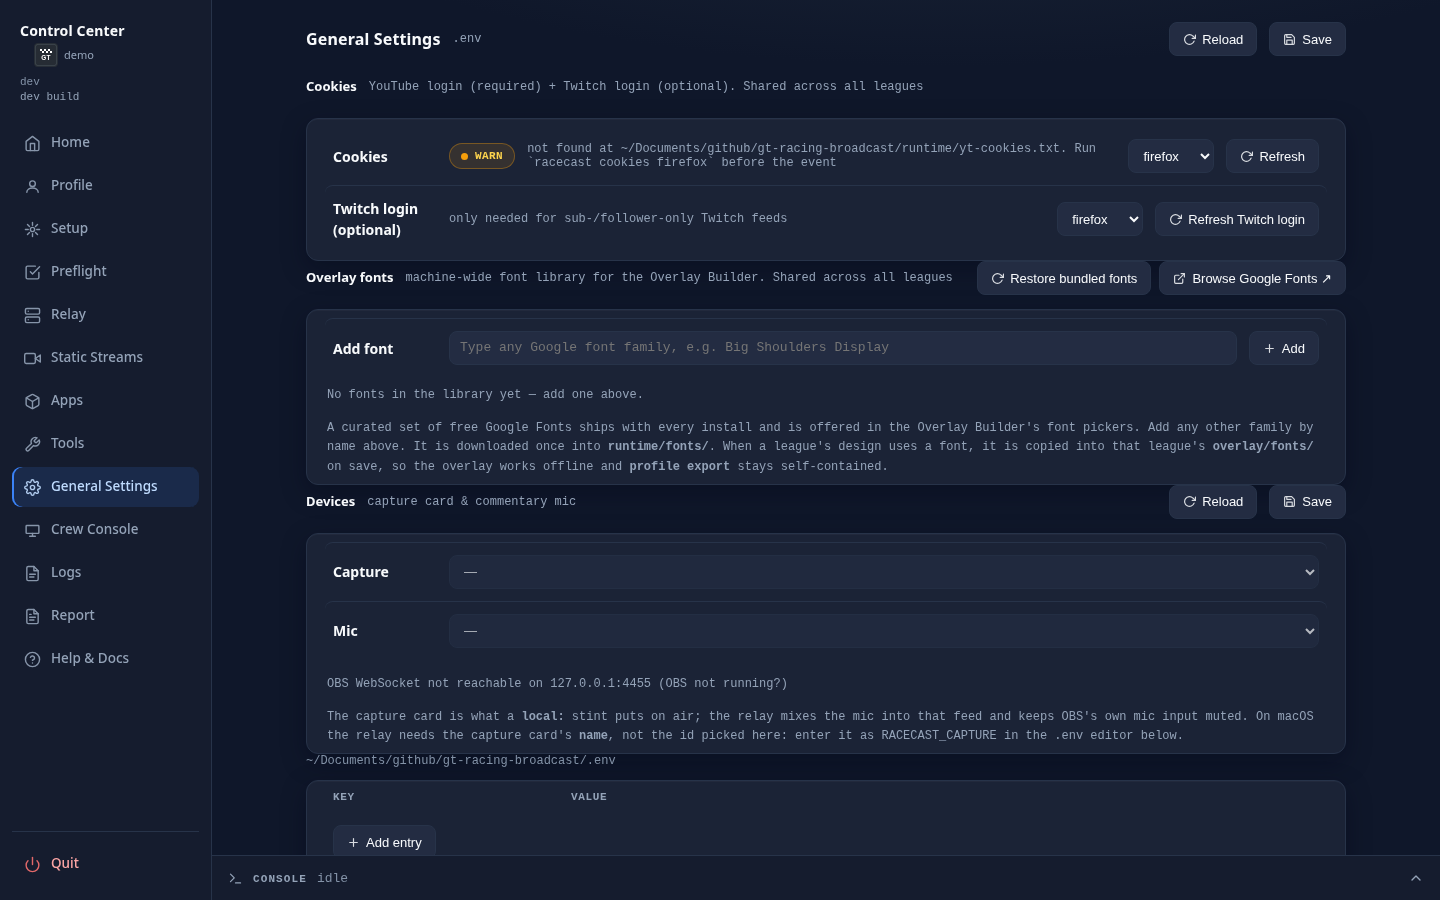
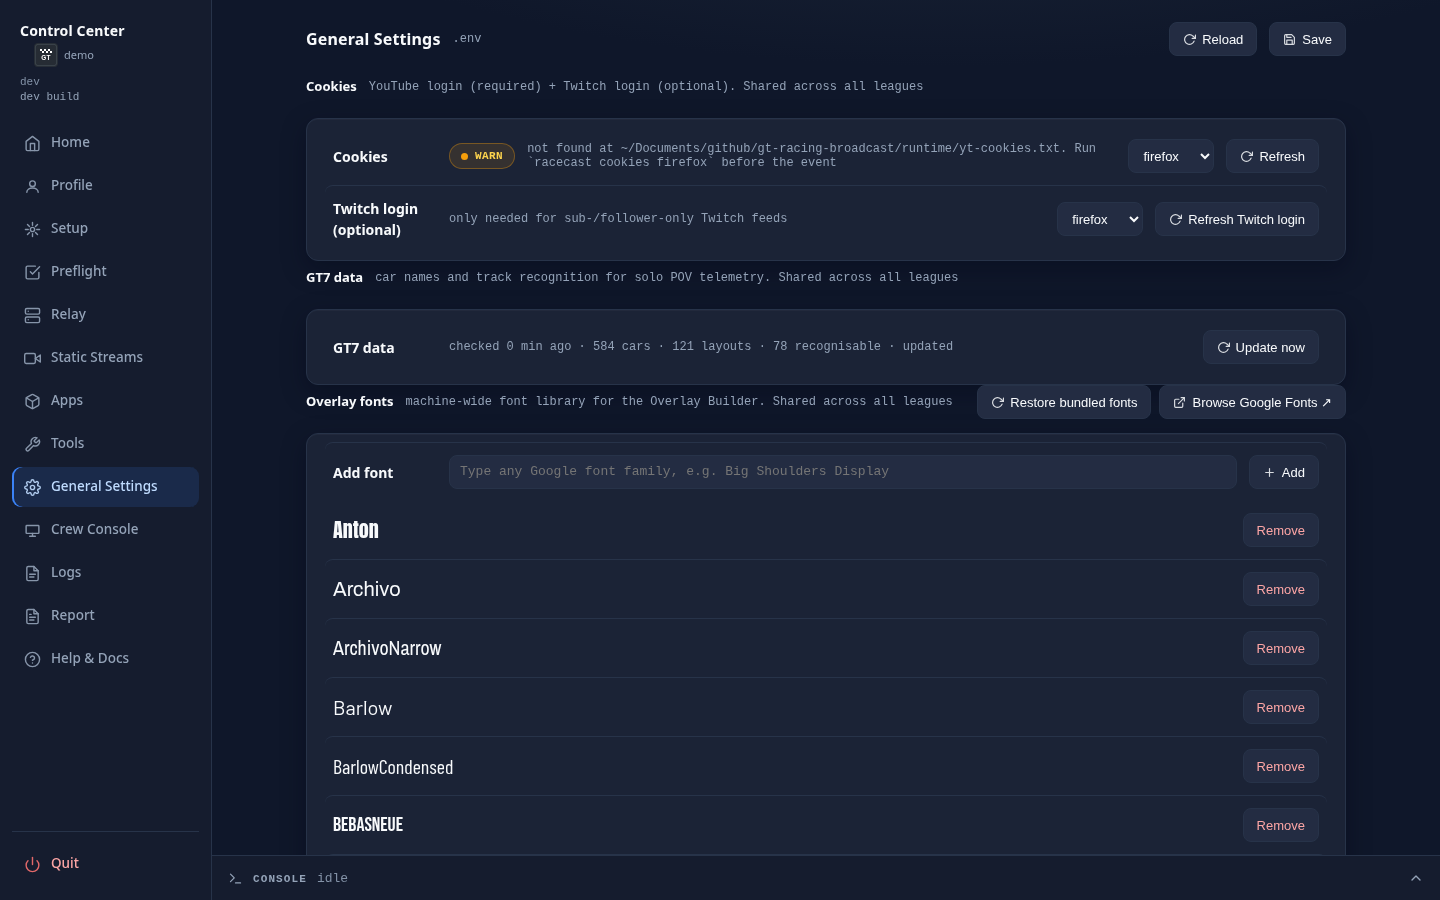
feat(cli,ui): racecast gt7-data and a GT7 data row in Settings (#787)
`racecast gt7-data update [--force]` fetches the GT7 car and track data now,
`racecast gt7-data status` lists each file's source and row count and names
signatures.json as not downloaded yet until the first update. The Control
Center Settings view gains a GT7 data row with an Update now button backed by
GET /api/gt7-data and POST /api/gt7-data/update.

diff --git a/src/ui/control-center.html b/src/ui/control-center.html
@@ -1001,6 +1001,13 @@
             <button onclick="op('cookies-twitch', false, {browser: $('browser-tw').value})">
               <svg viewBox="0 0 24 24"><path d="M23 4v6h-6"/><path d="M20.49 15a9 9 0 1 1-2.12-9.36L23 10"/></svg>Refresh Twitch login</button></div>
         </section>
+        <div class="viewhead"><h3>GT7 data</h3><span class="sub">car names and track recognition for solo POV telemetry. Shared across all leagues</span></div>
+        <section>
+          <div class="row"><span class="name">GT7 data</span>
+            <span class="dim grow" id="d-gt7data">…</span>
+            <button id="gt7data-update" onclick="updateGt7Data()" title="Fetch the latest car and track data now">
+              <svg viewBox="0 0 24 24"><path d="M23 4v6h-6"/><path d="M20.49 15a9 9 0 1 1-2.12-9.36L23 10"/></svg>Update now</button></div>
+        </section>
         <div class="viewhead"><h3>Overlay fonts</h3><span class="sub">machine-wide font library for the Overlay Builder. Shared across all leagues</span>
           <span class="vhbtns">
           <button id="font-restore" onclick="restoreBundledFonts()" title="Overwrite the fonts that ship with this install, in the library and in every league profile">
@@ -2539,6 +2546,7 @@ async function loadSettings(force) {
   $('env-err').hidden = true;
   loadFontLibrary();
   loadDevices();
+  loadGt7Data();
   let d;
   try { d = await (await fetch('/api/env', {cache: 'no-store'})).json(); }
   catch (e) { showEnvErr('Control Center not reachable.'); return; }
@@ -2744,6 +2752,45 @@ async function downloadCustomFont() {
   }
   $('font-custom').value = '';
   loadFontLibrary();
+}
+
+function fmtAgeS(ts) {
+  if (!ts) return 'never';
+  const s = Math.max(0, Date.now() / 1000 - ts);
+  if (s < 3600) return Math.round(s / 60) + ' min ago';
+  if (s < 86400) return Math.round(s / 3600) + ' h ago';
+  return Math.round(s / 86400) + ' days ago';
+}
+
+async function loadGt7Data() {
+  let d;
+  try { d = await (await fetch('/api/gt7-data', {cache: 'no-store'})).json(); }
+  catch (e) { $('d-gt7data').textContent = 'Control Center not reachable.'; return; }
+  if (!d.ok) { $('d-gt7data').textContent = d.error || 'unavailable'; return; }
+  const f = d.files || {};
+  const rows = n => (f[n] && f[n].rows != null) ? f[n].rows : '?';
+  const src = Object.values(f).some(x => x.source === 'runtime') ? 'updated' : 'bundled';
+  const sig = f['signatures.json'];
+  const recog = (sig && sig.source === 'missing') ? 'track signatures not downloaded yet'
+      : rows('signatures.json') + ' recognisable';
+  $('d-gt7data').textContent = 'checked ' + fmtAgeS(d.checked) + ' · ' + rows('cars.csv') +
+      ' cars · ' + rows('index.json') + ' layouts · ' + recog + ' · ' + src;
+}
+
+async function updateGt7Data() {
+  const b = $('gt7data-update'); b.disabled = true;
+  let d;
+  try {
+    d = await (await fetch('/api/gt7-data/update', {method: 'POST',
+        headers: {'Content-Type': 'application/json'}, body: '{}'})).json();
+  } catch (e) { d = {ok: false, error: 'Control Center not reachable.'}; }
+  b.disabled = false;
+  const errs = Object.entries(d.files || {}).filter(([, v]) => String(v).startsWith('error'));
+  if (!d.ok || errs.length) {
+    await alertModal((d.error ? d.error + '\n' : '') +
+        errs.map(([k, v]) => k + ': ' + v).join('\n'), {title: 'GT7 data'});
+  }
+  loadGt7Data();
 }
 
 async function restoreBundledFonts() {

diff --git a/src/racecast.py b/src/racecast.py
@@ -22,6 +22,7 @@
   racecast sheet     url | open              # print / open the active league's Google Sheet (built from its SHEET_ID)
   racecast telemetry record start|stop|status   # solo POV: record the GT7 telemetry trace (relay must run)
   racecast telemetry list | export <name|latest> [--out DIR] [--all] [--excel] | delete <name>   # recordings of the active profile -> samples.csv + laps.csv
+  racecast gt7-data  update [--force] | status   # GT7 car names + track recognition data (checked daily by the relay)
   racecast app launch|quit obs|discord|tailscale   # start / gracefully quit a GUI app (Control Center buttons)
   racecast discord   join | leave | status   # drive the desktop Discord client into/out of the league's voice channel
   racecast status                            # aggregate health of all services
@@ -982,6 +983,7 @@ TAILSCALE_VERBS = ("up", "down", "status", "logs")
 OBS_VERBS = ("refresh", "collection", "logs", "stream-target", "benchmark")
 SHEET_VERBS = ("url", "open")           # active league's Google Sheet (from SHEET_ID)
 TELEMETRY_VERBS = ("record", "list", "export", "delete")   # GT7 telemetry recordings
+GT7DATA_VERBS = ("update", "status")      # GT7 reference data
 APP_VERBS = ("launch", "quit")          # GUI app control for the Control Center
 APP_CONTROLLED = ("obs", "discord", "tailscale")   # GUI apps racecast can launch + quit
 
@@ -1049,6 +1051,11 @@ def route(argv):
         if verb not in TELEMETRY_VERBS:
             raise ValueError(f"usage: racecast telemetry {{{'|'.join(TELEMETRY_VERBS)}}}")
         return {"kind": "service", "command": "telemetry", "verb": verb, "rest": rest[1:]}
+    if cmd == "gt7-data":
+        verb = rest[0] if rest else None
+        if verb not in GT7DATA_VERBS:
+            raise ValueError(f"usage: racecast gt7-data {{{'|'.join(GT7DATA_VERBS)}}}")
+        return {"kind": "service", "command": "gt7-data", "verb": verb, "rest": rest[1:]}
     if cmd == "app":
         verb = rest[0] if rest else None
         if verb not in APP_VERBS:
@@ -3303,6 +3310,60 @@ def telemetry_delete_cmd(rest):
     print(f"deleted {name}")
 
 
+def _gt7_data_module():
+    import gt7_data
+    return gt7_data
+
+
+def _gt7_files_ok(files):
+    return any(not str(v).startswith("error") for v in files.values())
+
+
+def gt7_data_update_data():
+    """Force a GT7 data update for the Control Center; never raises."""
+    try:
+        res = _gt7_data_module().update(_runtime_base_dir(), force=True)
+    except Exception as exc:  # noqa: BLE001  the Control Center shows the message instead
+        return {"ok": False, "error": f"could not update GT7 data: {exc}"}
+    return {"ok": _gt7_files_ok(res["files"]), "changed": res["changed"], "files": res["files"]}
+
+
+def gt7_data_status_data():
+    """Source, age and row count of each GT7 data file; never raises."""
+    try:
+        st = _gt7_data_module().status(_runtime_base_dir(), resource_path("assets/gt7"))
+    except Exception as exc:  # noqa: BLE001  the Control Center shows the message instead
+        return {"ok": False, "error": f"could not read GT7 data: {exc}"}
+    return {"ok": True, "checked": st["checked"], "files": st["files"]}
+
+
+def gt7_data_update_cmd(rest):
+    """Fetch the latest GT7 car and track data now."""
+    if rest not in ([], ["--force"]):
+        sys.exit("usage: racecast gt7-data update [--force]")
+    res = gt7_data_update_data()
+    if "error" in res:
+        sys.exit(res["error"])
+    for name, state in sorted(res["files"].items()):
+        print(f"{name}: {state}")
+    if not res["ok"]:
+        sys.exit("GT7 data update failed (offline?)")
+
+
+def gt7_data_status_cmd(_rest):
+    """Show where each GT7 data file comes from and how many rows it holds."""
+    st = gt7_data_status_data()
+    if not st["ok"]:
+        sys.exit(st["error"])
+    when = time.strftime("%Y-%m-%d %H:%M", time.localtime(st["checked"])) if st["checked"] else "never"
+    print(f"last check: {when}")
+    for name, f in sorted(st["files"].items()):
+        if f["source"] == "missing":
+            print(f"{name}: not downloaded yet (run 'racecast gt7-data update')")
+            continue
+        print(f"{name}: {f['source']}, {f['rows'] if f['rows'] is not None else '?'} rows")
+
+
 def _release_obs_feeds():
     """Make OBS (via obs-websocket) drop its connections to the just-killed
     feeds. Otherwise OBS keeps the half-dead connections and the kernel pins
@@ -4694,6 +4755,7 @@ DISPATCH = {
     ("sheet", "url"): sheet_url_cmd, ("sheet", "open"): sheet_open_cmd,
     ("telemetry", "record"): telemetry_record_cmd, ("telemetry", "list"): telemetry_list_cmd,
     ("telemetry", "export"): telemetry_export_cmd, ("telemetry", "delete"): telemetry_delete_cmd,
+    ("gt7-data", "update"): gt7_data_update_cmd, ("gt7-data", "status"): gt7_data_status_cmd,
     ("app", "launch"): app_launch_cmd, ("app", "quit"): app_quit_cmd,
 }
 
@@ -7256,6 +7318,8 @@ def run_ui(rest, fail=sys.exit, open_browser=True):
         "machine_font_download": machine_font_download_data,
         "machine_font_delete": machine_font_delete_data,
         "fonts_restore": restore_bundled_fonts_data,
+        "gt7_data_status": gt7_data_status_data,
+        "gt7_data_update": gt7_data_update_data,
         "backup_list": backup_list_data,
         "backup_create": backup_create_data,
         "backup_restore": backup_restore_data,

diff --git a/tests/test_racecast.py b/tests/test_racecast.py
@@ -267,6 +267,108 @@ def t_route_telemetry_verbs():
     _raises(lambda: m.route(["telemetry", "bogus"]))
 
 
+def t_route_gt7_data_verbs():
+    for verb in ("update", "status"):
+        assert m.route(["gt7-data", verb]) == \
+            {"kind": "service", "command": "gt7-data", "verb": verb, "rest": []}
+    _raises(lambda: m.route(["gt7-data"]))
+    _raises(lambda: m.route(["gt7-data", "bogus"]))
+
+
+@contextlib.contextmanager
+def _fake_gt7_data(fake):
+    real = m._gt7_data_module
+    m._gt7_data_module = lambda: fake
+    try:
+        yield
+    finally:
+        m._gt7_data_module = real
+
+
+def t_gt7_data_update_data_forces_and_never_raises():
+    seen = []
+
+    class Fake:
+        @staticmethod
+        def update(base, force=False):
+            seen.append(force)
+            return {"checked": True, "changed": True, "files": {"cars.csv": "updated"}}
+
+        @staticmethod
+        def status(base, bundled=None):
+            raise RuntimeError("disk")
+
+    with _fake_gt7_data(Fake):
+        assert m.gt7_data_update_data()["ok"] is True and seen == [True]
+        assert m.gt7_data_status_data() == {"ok": False, "error": "could not read GT7 data: disk"}
+
+
+def t_gt7_data_update_data_maps_errors():
+    class AllFailed:
+        @staticmethod
+        def update(base, force=False):
+            return {"checked": True, "changed": False, "files": {"cars.csv": "error: offline"}}
+
+    class Boom:
+        @staticmethod
+        def update(base, force=False):
+            raise RuntimeError("disk")
+
+    with _fake_gt7_data(AllFailed):
+        assert m.gt7_data_update_data()["ok"] is False, "every file failed -> not ok"
+    with _fake_gt7_data(Boom):
+        assert m.gt7_data_update_data() == {"ok": False,
+                                            "error": "could not update GT7 data: disk"}
+
+
+def t_gt7_data_status_cmd_names_missing_signatures():
+    class Fake:
+        @staticmethod
+        def status(base, bundled=None):
+            return {"checked": None, "files": {
+                "cars.csv": {"source": "bundled", "updated": None, "rows": 500},
+                "signatures.json": {"source": "missing", "updated": None, "rows": None}}}
+
+    out = io.StringIO()
+    with _fake_gt7_data(Fake), contextlib.redirect_stdout(out):
+        m.gt7_data_status_cmd([])
+    text = out.getvalue()
+    assert "last check: never" in text, text
+    assert "cars.csv: bundled, 500 rows" in text, text
+    assert "signatures.json: not downloaded yet" in text and "gt7-data update" in text, text
+
+
+def t_gt7_data_update_cmd_prints_files_and_fails_when_all_fail():
+    seen = []
+
+    class Fake:
+        files = {"cars.csv": "updated", "index.json": "unchanged"}
+
+        @classmethod
+        def update(cls, base, force=False):
+            seen.append(force)
+            return {"checked": True, "changed": True, "files": cls.files}
+
+    out = io.StringIO()
+    with _fake_gt7_data(Fake), contextlib.redirect_stdout(out):
+        m.gt7_data_update_cmd(["--force"])
+    assert "cars.csv: updated" in out.getvalue() and seen == [True], out.getvalue()
+    Fake.files = {"cars.csv": "error: offline"}
+    try:
+        with _fake_gt7_data(Fake), contextlib.redirect_stdout(io.StringIO()):
+            m.gt7_data_update_cmd([])
+    except SystemExit as e:
+        assert "failed" in str(e.code), e.code
+    else:
+        raise AssertionError("an update where every file failed must exit non-zero")
+    try:
+        m.gt7_data_update_cmd(["--bogus"])
+    except SystemExit as e:
+        assert "usage" in str(e.code), e.code
+    else:
+        raise AssertionError("an unknown flag must print usage")
+
+
 def _rec_dir_with_one(d):
     import importlib
     gr = importlib.import_module("gt7_recording")

diff --git a/tests/test_ui_server.py b/tests/test_ui_server.py
@@ -196,6 +196,8 @@ def _ctx(jobs=None, init_plan=None, init_step=None, profile_logo=None,
                                                    "name": (name or "") + ".woff2"},
             "machine_font_delete": lambda name: {"ok": True, "removed": name},
             "fonts_restore": lambda force: {"ok": True, "library": [], "profiles": {}},
+            "gt7_data_status": lambda: {"ok": True, "checked": None, "files": {}},
+            "gt7_data_update": lambda: {"ok": True, "changed": False, "files": {}},
             "overlay_font_upload": lambda name, data: {"ok": bool(name),
                                                        "name": name,
                                                        "_len": len(data)},
@@ -1594,6 +1596,35 @@ def t_fonts_restore_route_passes_only_a_literal_true_force():
         assert code == 200 and json.loads(body)["profiles"] == {"demo": ["Oswald.woff2"]}
         _post_json(port, "/api/fonts/restore", {"force": "yes"})
         assert seen == [True, False], seen
+    finally:
+        httpd.shutdown()
+
+
+def t_gt7_data_routes():
+    ctx = _ctx()
+    ctx["gt7_data_update"] = lambda: {"ok": True, "changed": True,
+                                      "files": {"cars.csv": "updated"}}
+    httpd, port = _serve(ctx)
+    try:
+        code, body = _get(port, "/api/gt7-data")
+        assert code == 200 and json.loads(body)["ok"] is True, (code, body)
+        code, body = _post_json(port, "/api/gt7-data/update", {})
+        assert code == 200 and json.loads(body)["files"] == {"cars.csv": "updated"}, body
+    finally:
+        httpd.shutdown()
+
+
+def t_gt7_data_update_route_maps_failures():
+    ctx = _ctx()
+    ctx["gt7_data_update"] = lambda: {"ok": False, "changed": False,
+                                      "files": {"cars.csv": "error: offline"}}
+    httpd, port = _serve(ctx)
+    try:
+        code, body = _post_json(port, "/api/gt7-data/update", {})
+        assert code == 502 and json.loads(body)["ok"] is False, (code, body)
+        ctx["gt7_data_update"] = lambda: 1 / 0
+        code, body = _post_json(port, "/api/gt7-data/update", {})
+        assert code == 500 and json.loads(body)["ok"] is False, (code, body)
     finally:
         httpd.shutdown()
 

diff --git a/src/ui/ui_server.py b/src/ui/ui_server.py
@@ -473,6 +473,13 @@ def make_handler(ctx):
                     return self._json({"ok": False,
                                        "error": f"could not read profile .env: {exc}"},
                                       code=500)
+            if path == "/api/gt7-data":
+                try:
+                    return self._json(ctx["gt7_data_status"]())
+                except Exception as exc:
+                    return self._json({"ok": False,
+                                       "error": f"could not read GT7 data: {exc}"},
+                                      code=500)
             if path == "/api/crew":
                 try:
                     return self._json(ctx["crew_read"]())
@@ -857,6 +864,14 @@ def make_handler(ctx):
                                        "error": f"could not fetch Google font: {exc}"},
                                       code=500)
                 return self._json(result, code=200 if result.get("ok") else 400)
+            if path == "/api/gt7-data/update":
+                try:
+                    result = ctx["gt7_data_update"]()
+                except Exception as exc:
+                    return self._json({"ok": False,
+                                       "error": f"could not update GT7 data: {exc}"},
+                                      code=500)
+                return self._json(result, code=200 if result.get("ok") else 502)
             if path == "/api/fonts/restore":
                 body = self._body_json()
                 if body is None:
